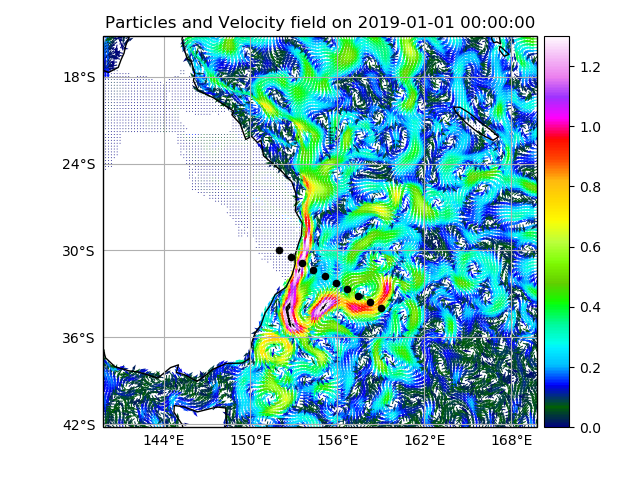
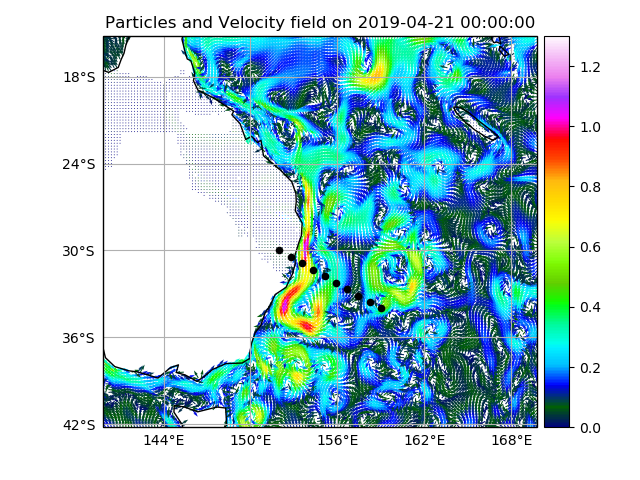
Create gif reverse advection

diff --git a/imos_current_data/analysis_imos_current_data/plot_trajectory_imos.py b/imos_current_data/analysis_imos_current_data/plot_trajectory_imos.py
@@ -33,24 +33,27 @@ def PlotImosFile(filenames):
     def DeleteParticle(particle, fieldset, time):
         particle.delete()
     images = []
-
     fieldset = FieldSet.from_netcdf(filenames, variables, dimensions)
-    pset = ParticleSet.from_line(fieldset=fieldset,   # the fields on which the particles are advected
-                                pclass=JITParticle,# the type of particles (JITParticle or ScipyParticle)
+    """pset = ParticleSet.from_line(fieldset=fieldset,   # the fields on which the particles are advected
+                                pclass=JITParticle,
                                 size=10,
-                                start=(152., -30),
-                                finish=(159.,-34))# a vector of release latitudes
+                                start=(151.259, -33.919),
+                                finish=(151.257,-33.923))
+                              #  start=(152., -30),
+                               # finish=(159.,-34))
+    """
+    pset=ParticleSet(fieldset=fieldset, pclass=JITParticle, lon=151.259, lat=-33.92, time=datetime(2019, 3, 9, 2))
 
     k_WestVel = pset.Kernel(WestVel)
-    for i in range(70):
+    for i in range(55):
         pset.execute(AdvectionRK4,                 #
                     runtime=timedelta(hours=i),    # the total length of the run
-                    dt=timedelta(minutes=5),      # the timestep of the kernel
+                    dt=-timedelta(minutes=5),      # the timestep of the kernel
                     recovery={ErrorCode.ErrorOutOfBounds: DeleteParticle},
                     output_file=pset.ParticleFile(name="IMOSTRY.nc", outputdt=timedelta(hours=1)))
-        pset.show(domain={'N':-15, 'S':-42, 'E':170, 'W':140}, field='vector',vmin=0.,vmax=1.3, savefile='../outputs_imos_current_data/make_gif/particl'+str(i)+'.png')
-        images.append(imageio.imread('../outputs_imos_current_data/make_gif/particl'+str(i)+'.png'))
-    imageio.mimsave('../outputs_imos_current_data/particle_advection.gif', images)
+        pset.show(domain={'N':-15, 'S':-42, 'E':170, 'W':140}, field='vector',vmin=0.,vmax=1.3, savefile='../outputs_imos_current_data/make_gif/particl_revers'+str(i)+'.png')
+        images.append(imageio.imread('../outputs_imos_current_data/make_gif/particl_revers'+str(i)+'.png'))
+    imageio.mimsave('../outputs_imos_current_data/particle_advection_reverse.gif', images)
     
    #cpt.plotTrajectoriesFileModified('IMOSTRY.nc',mode='movie2d', tracerlon='LONGITUDE',tracerlat='LATITUDE',tracerfield='UCUR');
     """tracerfile=filenames,

diff --git a/observation_data/analysis_observation_data/analysis_bluebottle_lifeguard.py b/observation_data/analysis_observation_data/analysis_bluebottle_lifeguard.py
@@ -187,7 +187,6 @@ def TableMonthBeach():
     ax.hist()
     plt.show()"""
 
-TableMonthBeach()
             
 
 def GetDateSomeLikelyNone(number):
@@ -220,6 +219,7 @@ date_box=[GetDateSomeLikelyNone(0.),GetDateSomeLikelyNone(0.5),GetDateSomeLikely
 #TableDiff(date[1],date[2],bluebottles[1],bluebottles[2])
 
 #PlotFirstTry()
+#TableMonthBeach()
 
 """
 BOM data
@@ -320,7 +320,7 @@ def WindDirectionTime(nb):
     plt.show()
 
 
-files_name = glob.glob('../raw_observation_data/bom_port_kembla/IDO*.csv')
+#files_name = glob.glob('../raw_observation_data/bom_port_kembla/IDO*.csv')
 f=[]
 BOMdate=[0,1,2]
 BOMtime=[0,1,2]
@@ -339,10 +339,31 @@ BOMwater_tempNew=[]
 BOMwind_directionNew=[]
 BOMwind_speedNew=[]
 JoinBomData()
+x=[]
+for i in range(len(BOMwind_directionNew)):
+    for j in range(len(date[1])): #coogee
+        if DayEqual(BOMtimeNew[i],date[1][j]):
+   #         if bluebottles[1][j]==0:
+            x.append(BOMwind_directionNew[i])
 
-for i in range(3):
-    BoxPlot(i)
+plt.hist(x,bins=30)
+plt.ylabel('proba')
 
+files_name_sydney='../raw_observation_data/wind_kurnell_sydney_observatory/wind_sydney_jan_19.csv'
+f_sydney=pd.read_csv(files_name_sydney)
+
+def GetSydneyVariables(filename):
+    """
+    Return date, water temp, #of bluebottles of a file
+    """
+    wind_direction = []
+    for i in range(len(filename)):
+        wind_direction.append(filename.am_wind_direction[i])
+
+    return wind_direction
+#for i in range(3):
+ #   BoxPlot(i)
+wind_direction_sydney=GetSydneyVariables(f_sydney)
 
 #for i in range(len(beach)):
  #   WindDirectionTime(i)
